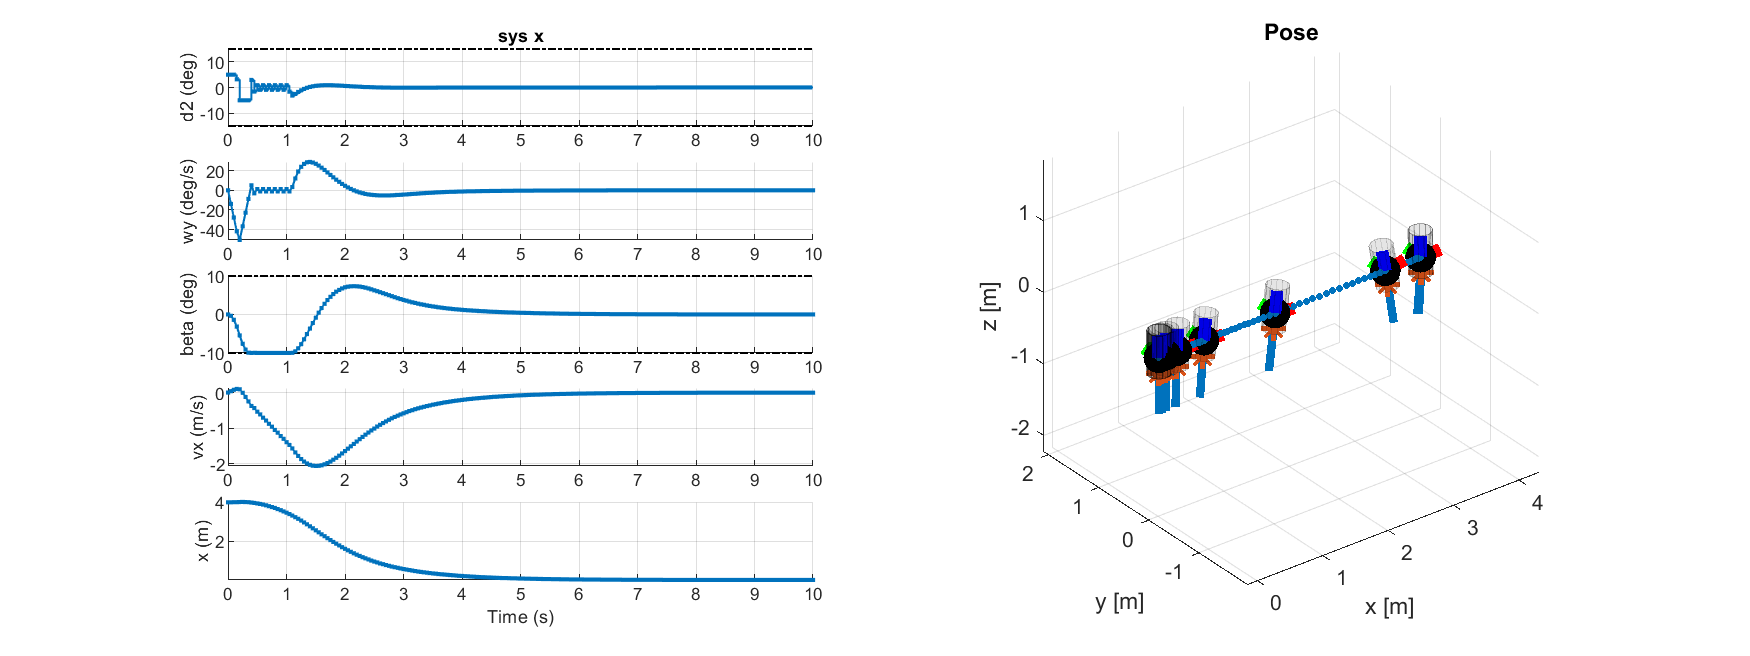
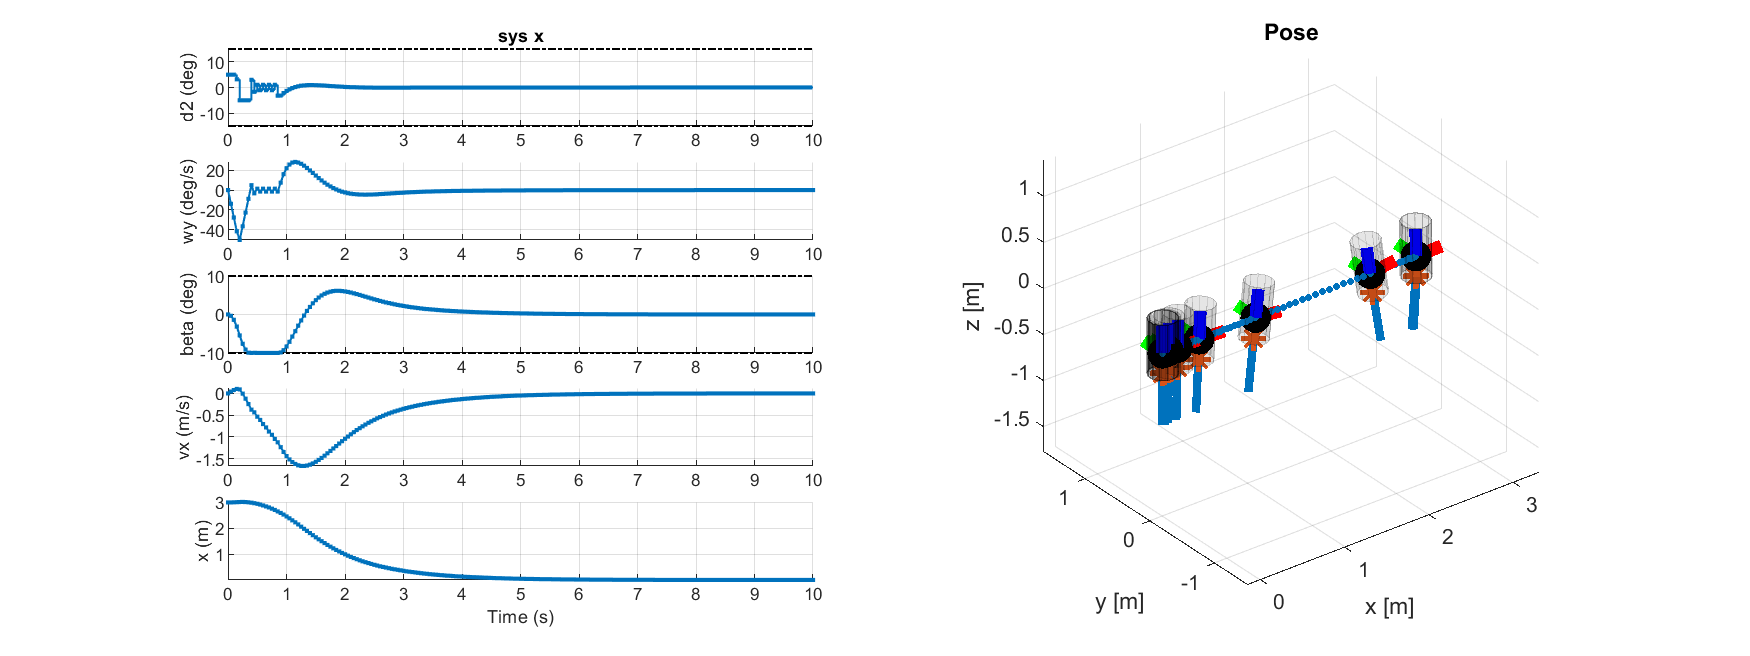
Joachim final push

diff --git a/Deliverable_3_1/Deliverable_3_1.m b/Deliverable_3_1/Deliverable_3_1.m
@@ -16,7 +16,7 @@ Tf = 10; % seconds of simulation
 
 %x-component
 mpc_x = MpcControl_x(sys_x, Ts, H);
-x_x = [0,0,0,4].';
+x_x = [0,0,0,3].';
 
 
 %Open-Loop
@@ -31,7 +31,7 @@ ph = rocket.plotvis_sub(T, X_sub, U_sub, sys_x, xs, us);
 saveas(gcf,'Closed-loop x.png')
 %y-component
 mpc_y = MpcControl_y(sys_y, Ts, H);
-x_y = [0,0,0,4].';
+x_y = [0,0,0,3].';
 
 % Account for linearization point
 

diff --git a/Deliverable_3_2/MpcControl_y_bad.m b/Deliverable_3_2/MpcControl_y_bad.m
@@ -25,7 +25,7 @@ classdef MpcControl_y_bad < MpcControlBase
             % Predicted state and input trajectories
             X = sdpvar(nx, N, 'full');
             U = sdpvar(nu, N-1, 'full');
-            Q = 30*eye(nx);
+            Q = 30*eye(nx); Q(1,1) = 20; Q(2,2) = 15;
             R = 0.5*eye(nu);
             alpha_max = deg2rad(10);
             alpha_dif_max = deg2rad(5);

diff --git a/MpcControl/MpcControl_y.m b/MpcControl/MpcControl_y.m
@@ -25,7 +25,7 @@ classdef MpcControl_y < MpcControlBase
             % Predicted state and input trajectories
             X = sdpvar(nx, N, 'full');
             U = sdpvar(nu, N-1, 'full');
-            Q = 30*eye(nx);
+            Q = 30*eye(nx); Q(1,1) = 20; Q(2,2) = 15;
             R = 0.5*eye(nu);
             alpha_max = deg2rad(10);
             alpha_dif_max = deg2rad(5);

diff --git a/Deliverable_3_1/MpcControl_y.m b/Deliverable_3_1/MpcControl_y.m
@@ -25,7 +25,7 @@ classdef MpcControl_y < MpcControlBase
             % Predicted state and input trajectories
             X = sdpvar(nx, N, 'full');
             U = sdpvar(nu, N-1, 'full');
-            Q = eye(nx);
+            Q = 30*eye(nx); Q(1,1) = 20; Q(2,2) = 15;
             R = 0.5*eye(nu);
             alpha_max = deg2rad(10);
             alpha_dif_max = deg2rad(5);

diff --git a/Deliverable_3_2/MpcControl_x_bad.m b/Deliverable_3_2/MpcControl_x_bad.m
@@ -28,7 +28,7 @@ classdef MpcControl_x_bad < MpcControlBase
             beta_max = deg2rad(10);
             max_B_dif = deg2rad(5);
             % Define the weight matrices
-            Q = 30*eye(nx);
+            Q = 30*eye(nx); Q(1,1) = 20; Q(2,2) = 15;
             R = 0.5*eye(nu); 
             M = [1;-1];
             m = [max_B_dif; max_B_dif];

diff --git a/MpcControl/MpcControl_x.m b/MpcControl/MpcControl_x.m
@@ -28,7 +28,7 @@ classdef MpcControl_x < MpcControlBase
             beta_max = deg2rad(10);
             max_B_dif = deg2rad(5);
             % Define the weight matrices
-            Q = 30*eye(nx);
+            Q = 30*eye(nx); Q(1,1) = 20; Q(2,2) = 15;
             R = 0.5*eye(nu); 
             M = [1;-1];
             m = [max_B_dif; max_B_dif];

diff --git a/Deliverable_3_1/MpcControl_x.m b/Deliverable_3_1/MpcControl_x.m
@@ -28,7 +28,7 @@ classdef MpcControl_x < MpcControlBase
             beta_max = deg2rad(10);
             max_B_dif = deg2rad(5);
             % Define the weight matrices
-            Q = eye(nx);
+            Q = 30*eye(nx); Q(1,1) = 20; Q(2,2) = 15;
             R = 0.5*eye(nu); 
             M = [1;-1];
             m = [max_B_dif; max_B_dif];

diff --git a/MpcControl/MpcControl_z.m b/MpcControl/MpcControl_z.m
@@ -54,8 +54,6 @@ classdef MpcControl_z < MpcControlBase
             %Cost matrices 
             Q = 500*eye(nx); 
             R = 0.0001*eye(nu);  
-            % Q = diag([25,35]);
-            % R = 1.5*eye(nu); 
 
             %State constraints - not needed? -> altitude = 0?
             %Input constraints for Pavg

diff --git a/Deliverable_4_1/Deliverable_4_1.m b/Deliverable_4_1/Deliverable_4_1.m
@@ -46,4 +46,4 @@ Tf = 30;
 rocket.anim_rate = 10; %increase this to make animation faster
 ph = rocket.plotvis(T,X,U,Ref);
 ph.fig.Name = 'Merged lin. MPC in nonlinear simulation'; %set figure title
-
+saveas(gcf,'4.1 plot.png')
